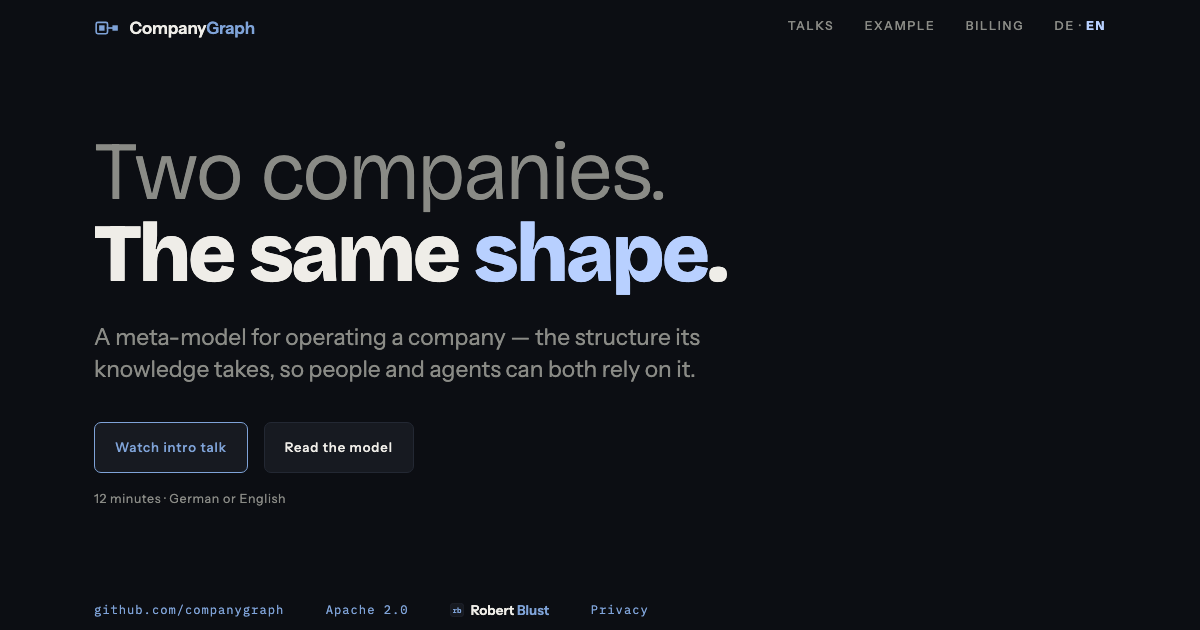
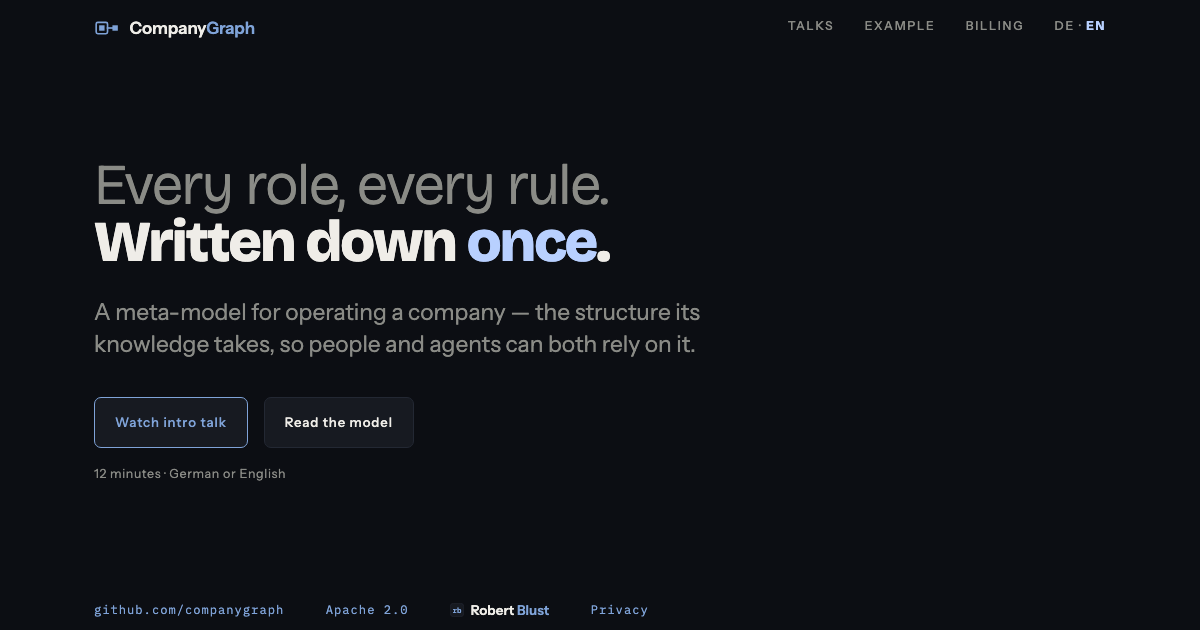
Lead with what the model does, set it smaller, and put the figure under the buttons

Changed region(s): [[0.0617, 0.2111, 0.6167, 0.6032], [0.0925, 0.6635, 0.3392, 0.754], [0.0925, 0.7841, 0.2467, 0.8143]]

diff --git a/index.html b/index.html
@@ -65,11 +65,16 @@
            color:var(--dim); white-space:nowrap}
   .langind:hover{color:var(--ink)}
   .langind .on{color:var(--c-firm); font-weight:700}
-  /* Hero and figure sit side by side while there is room for both, and stack when there is
-     not. The page's whole promise is one screen, and a figure the width of the text column,
-     under it, is taller than a laptop. */
-  main{flex:1; display:flex; align-items:center; padding:6vh 0}
-  main .shell{display:flex; flex-wrap:wrap; align-items:center; gap:clamp(2rem,5vw,4.5rem)}
+  /* The figure always sits on its own row under the hero, left-aligned with it, at every
+     width — never beside it. The page's whole promise is one screen, and this is what keeps
+     the hero, the figure and its caption inside one. */
+  main{flex:1; display:flex; align-items:center; padding:0vh 0}
+  /* No shell-level gap: the hero, the drawing and the caption need three different
+     distances from one another, not one row gap repeated between all three, so each
+     distance is that item's own margin-top instead — .hero's flex-basis is content, not a
+     row-layout width hint, or it would stretch to fill the leftover main-axis space that
+     used to be beside the figure and reopen the gap this exists to close. */
+  main .shell{display:flex; flex-direction:column; align-items:stretch; gap:0}
   /* Mono means data, and every item here is one: a URL, a licence identifier, a name that
      is really a link. The check that guards mono deliberately does not reach the footer. */
   footer{padding:0 0 2rem; display:flex; flex-wrap:wrap; gap:.9rem 2.6rem; align-items:center;
@@ -91,17 +96,19 @@
   footer .credit b em{font-style:normal; color:var(--c-mid)}
   footer .credit:hover, footer .credit:focus-visible{text-decoration:none}
   footer .credit:hover b em, footer .credit:focus-visible b em{color:var(--ink)}
-  .hero{flex:1 1 500px; max-width:640px; container-type:inline-size}
+  .hero{flex:0 0 auto; max-width:640px; container-type:inline-size}
   /* One axis carries the argument: the setup arrives light and unresolved, the shape it
      lands on arrives heavy. em marks the resolved word itself. */
-  /* The headline sizes to its own column, not to the viewport: once the figure sits beside
-     it the two stop being the same measurement, and a viewport-sized headline breaks "The
-     same shape." across two lines on any laptop around 1200px. The vw line is the fallback
-     for anything without container query units and is deliberately the more timid of the
-     two. */
+  /* The headline sizes to its own column, not to the viewport: the hero caps at 640px well
+     short of the viewport on anything wider than a phone, so a viewport-sized headline keeps
+     growing past that cap and breaks "Written down once." across two lines on any laptop
+     around 1200px. The cqw coefficient is tuned to the German line, not the English one —
+     "Einmal aufgeschrieben." is the longer of the two and wraps first as the coefficient
+     climbs. The vw line is the fallback for anything without container query units and is
+     deliberately the more timid of the two. */
   .hero h1{letter-spacing:-.035em; line-height:1.0;
-           font-size:clamp(2.4rem,5.8vw,5.4rem);
-           font-size:clamp(2.4rem,12.8cqw,5.4rem)}
+           font-size:clamp(2.4rem,4vw,4.4rem);
+           font-size:clamp(2.4rem,8.9cqw,4.4rem)}
   .hero h1 .r70{display:block; font-weight:300; color:var(--dim)}
   .hero h1 .rcl{display:block; font-weight:800}
   .hero h1 em{font-style:normal; color:var(--c-firm)}
@@ -133,19 +140,19 @@
      shape. Nothing in the figure is interactive, so nothing in it is --c-mid, and there
      is no reversal here, so there is no --c-flag. */
   /* `display:contents` puts the drawing and its caption into `main .shell`'s flex row as
-     two independent items: the drawing keeps its column beside the hero, and the caption
-     takes a full-width row of its own beneath both. The figcaption stays inside <figure>
-     in the markup — which is what makes it a caption rather than a stray paragraph — and
-     the svg still names it through aria-labelledby. Sizing that lived on .figure has to
-     move to .fig, because a display:contents box has no geometry of its own. */
+     two independent items, each taking a full-width row of its own beneath the hero — the
+     drawing first, the caption under it. The figcaption stays inside <figure> in the
+     markup — which is what makes it a caption rather than a stray paragraph — and the svg
+     still names it through aria-labelledby. Sizing that lived on .figure has to move to
+     .fig, because a display:contents box has no geometry of its own. */
   .figure{display:contents}
-  .fig{display:block; flex:1 1 300px; max-width:400px; width:100%; height:auto}
+  .fig{display:block; flex:1 1 100%; max-width:400px; width:100%; height:auto; margin-top:1.5rem}
   /* Left-aligned and set at the sibling's caption size, not smaller: this is the figure's
      argument in words, not a label under a picture. Centring it and shrinking it made it
      read as a credit line — the one place on the page where the claim is stated plainly
      was the quietest thing on it. `balance` is gone with the centring; it only ever
      helped a short centred line. */
-  .figcap{flex:1 1 100%; margin-top:1.4rem; color:var(--dim);
+  .figcap{flex:1 1 100%; margin-top:1rem; color:var(--dim);
           font-size:clamp(1rem,1.3vw,1.14rem); line-height:1.5; text-wrap:pretty}
   .fig .box   {fill:none; stroke:var(--c-weak); stroke-width:2}
   .fig .ref   {fill:none; stroke:var(--c-weak); stroke-width:2; stroke-linecap:square}
@@ -213,7 +220,7 @@
 <main>
   <div class="shell">
   <section class="hero">
-    <h1 data-de="<span class='r70'>Zwei Unternehmen.</span><span class='rcl'>Dieselbe <em>Form</em>.</span>"><span class="r70">Two companies.</span><span class="rcl">The same <em>shape</em>.</span></h1>
+    <h1 data-de="<span class='r70'>Jede Rolle, jede Regel.</span><span class='rcl'>Einmal <em>aufgeschrieben</em>.</span>"><span class="r70">Every role, every rule.</span><span class="rcl">Written down <em>once</em>.</span></h1>
     <p class="tagline" data-de="Ein Meta-Modell für den Betrieb eines Unternehmens — die Struktur, die sein Wissen annimmt, damit Menschen und Agenten sich darauf verlassen können.">A meta-model for operating a company — the structure its knowledge takes, so people and agents can both rely on it.</p>
     <div class="cta">
       <a class="btn primary" href="talks/intro/"
@@ -274,7 +281,7 @@
       </g>
     </svg>
     <figcaption class="figcap" id="figcap"
-       data-de="Ein Unternehmen aus einer Person, und eines mit Angestellten. Die Grösse ändert die Form nicht: dieselben Typen, dieselben Referenzen, dieselben Regeln. Sie ändert nur, wie viel davon ausgefüllt ist.">A company of one, and a company with a payroll. Size does not change the shape: the same types, the same references, the same rules. It changes only how much of it is filled in.</figcaption>
+       data-de="Es wurde nicht entworfen, sondern herausgezogen. Eine Ein-Personen-Firma und eine mit Angestellten, die nichts voneinander wussten, hatten dieselbe Form — die Grösse ändert nur, wie viel davon ausgefüllt ist.">It was not designed; it was extracted. A company of one and a company with a payroll, which never knew of each other, turned out to have the same shape — size changes only how much of it is filled in.</figcaption>
   </figure>
   </div>
 </main>

diff --git a/billing/index.html b/billing/index.html
@@ -16,7 +16,7 @@
 <meta property="og:image" content="https://companygraph.io/og.png">
 <meta property="og:image:width" content="1200">
 <meta property="og:image:height" content="630">
-<meta property="og:image:alt" content="CompanyGraph. Two companies, the same shape — a meta-model for operating a company.">
+<meta property="og:image:alt" content="CompanyGraph. Every role, every rule, written down once — a meta-model for operating a company.">
 <meta property="og:locale" content="en_GB">
 <meta name="twitter:card" content="summary_large_image">
 

diff --git a/privacy/index.html b/privacy/index.html
@@ -16,7 +16,7 @@
 <meta property="og:image" content="https://companygraph.io/og.png">
 <meta property="og:image:width" content="1200">
 <meta property="og:image:height" content="630">
-<meta property="og:image:alt" content="CompanyGraph. Two companies, the same shape — a meta-model for operating a company.">
+<meta property="og:image:alt" content="CompanyGraph. Every role, every rule, written down once — a meta-model for operating a company.">
 <meta property="og:locale" content="en_GB">
 <meta name="twitter:card" content="summary_large_image">
 

diff --git a/README.md b/README.md
@@ -67,9 +67,9 @@ canonical name, to something nothing owns — is the line out to the square besi
 else is in the glyph; a mark that needs a third element to make its point is not this one.
 
 The hero figure animates two unlike trees toward that same shape — one small, one much
-larger — because the shape is what both converge on, not a diagram either tree drew on its
-own. The mark is where the animation lands; `logo.svg` and `favicon.svg` are that same
-destination, held still.
+larger — because that convergence is where the model came from, not a diagram either tree
+drew on its own. The mark is where the animation lands; `logo.svg` and `favicon.svg` are that
+same destination, held still.
 
 ## Running it
 

diff --git a/docs/superpowers/specs/2026-08-23-landing-page-design.md b/docs/superpowers/specs/2026-08-23-landing-page-design.md
@@ -1,5 +1,7 @@
 # companygraph.io — landing page design
 
+> **Partly superseded.** The page no longer leads with the convergence claim, the headline is set smaller, and the figure sits under the hero at every width; the reasoning is in [`2026-08-25-intro-talk-rework-design.md`](2026-08-25-intro-talk-rework-design.md) §2. The tagline, the links and every rule in §3 stand.
+
 > One screen that says what CompanyGraph is and sends the visitor to the code.
 
 **Status:** design agreed, not yet built.
